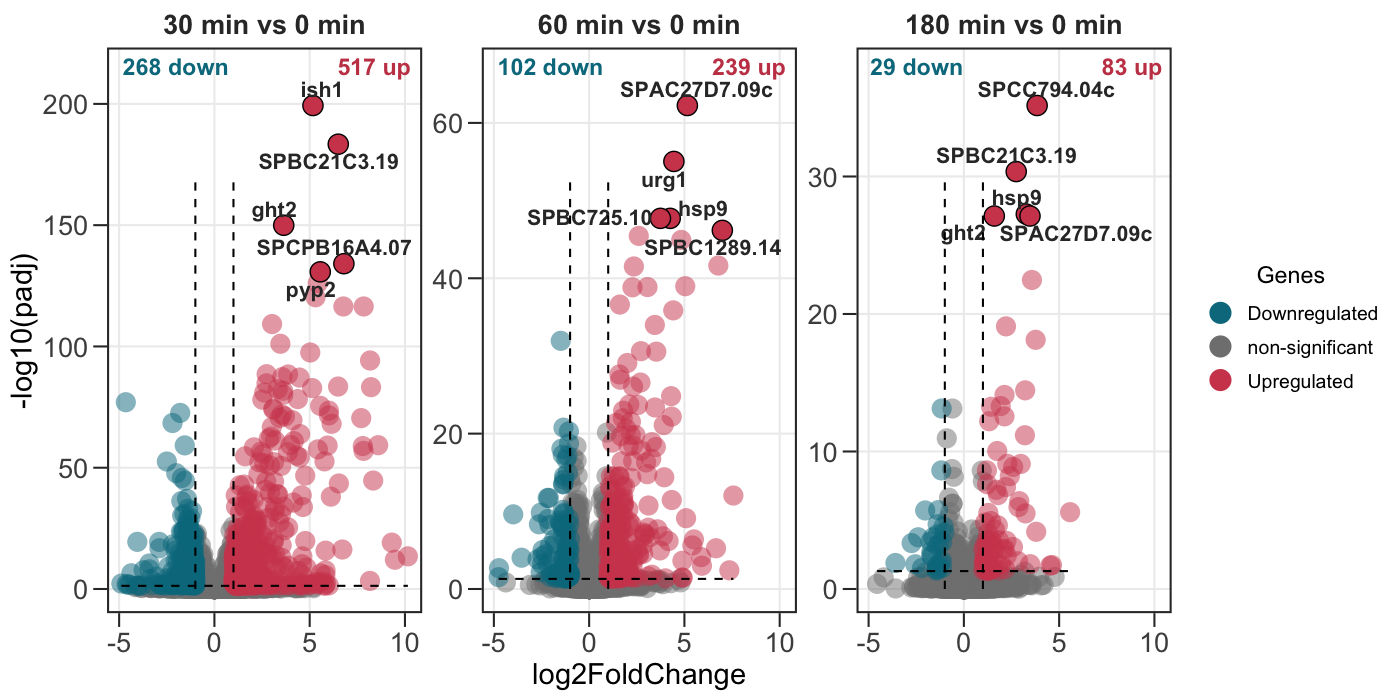
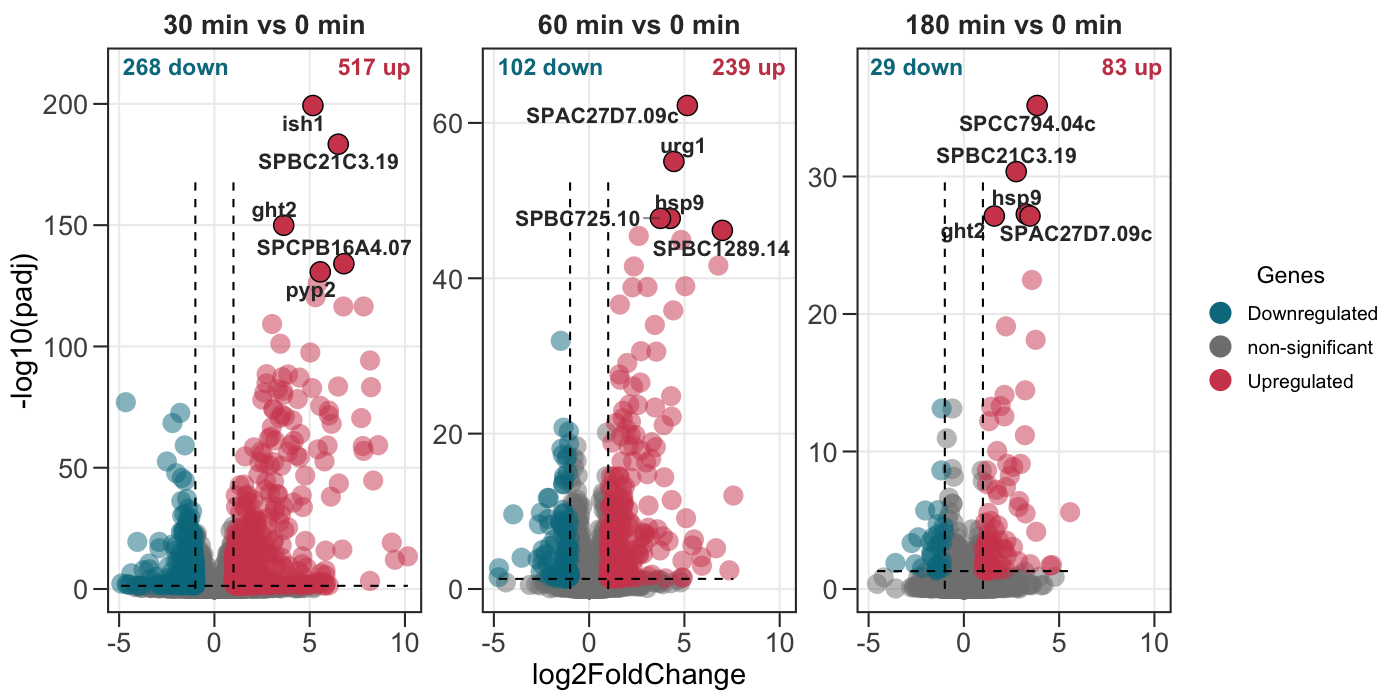
Gene sets: keep the original plot look, use matching minou colors and the same transparency as all points

diff --git a/NEWS.md b/NEWS.md
@@ -30,8 +30,8 @@
   `data2` genes are highlighted in every panel. Panels are titled with clean bold
   labels (restyle with `+ theme(strip.background = ...)`).
 * **`highlight`** colors named gene sets (pathways, GO terms) with their own
-  legend entries, outlined, while the other genes fade to light tints of the
-  palette; choose colors with `highlight_colors`.
+  legend entries, in colors matching the default palette; choose colors with
+  `highlight_colors`.
 * **`show_counts = TRUE`** prints the number of down- and upregulated genes in
   the top corners.
 * **`flip = TRUE`** swaps the axes: log2 fold change on the y-axis,

diff --git a/README.md b/README.md
@@ -327,8 +327,8 @@ ggvolc(all_genes, label_top = 6, show_counts = TRUE, add_seg = TRUE)
 ### 13. Color gene sets
 
 Pass a named list of gene sets (a pathway, a GO term, your own list) to
-`highlight`. Each set gets its own color and legend entry, and the other genes
-fade to light tints of the palette so the sets stand out.
+`highlight`. Each set gets its own color and legend entry; by default the
+colors come from the same ltc palette as the up/down colors.
 
 ``` r
 genes <- all_genes$genes
